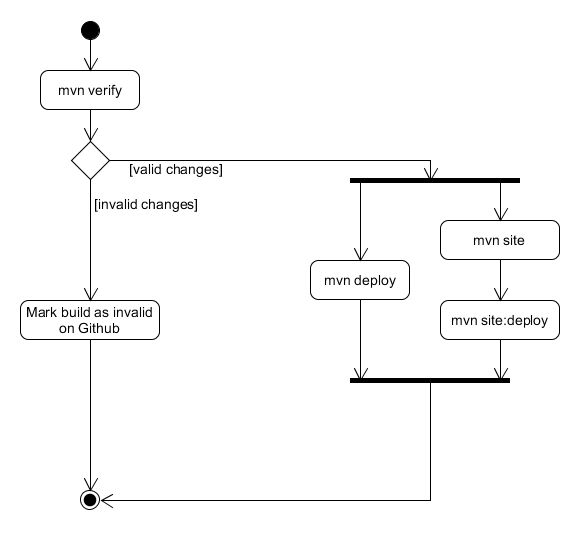
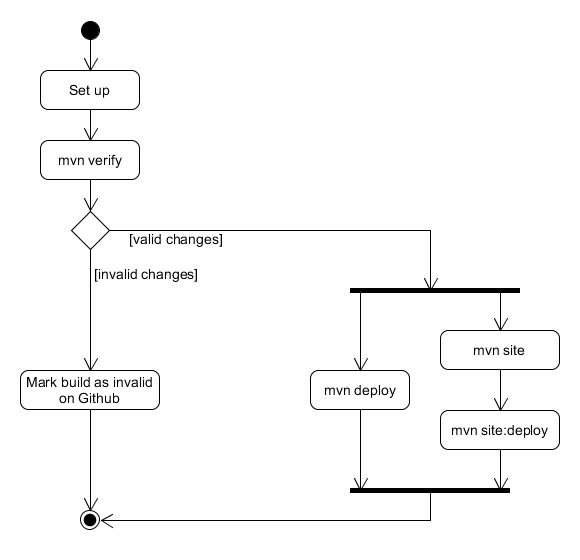
Updated CI docs

diff --git a/general/ci.md b/general/ci.md
@@ -4,11 +4,74 @@ The CI service will take care of validating the changes, building/publishing art
 
 ![CI flow][ci_flow]
 
+## Worflow
+
+CI is triggered by changes to the code repository.
+
+But not all the changes should be treated equally, instead there are a few workflows depending on the source of the changes:
+
+- Releases, when the code is for a version which will be published
+- Development, for the main development version
+- Pull request, when combining branches
+- Other, for example when developing a feature
+
+Releases and development versions are the primary source code bases for the project. And these receive special care, which usually includes deploying documentation.
+
+Pull requests are fast, and will skip all special conditions. A pull request into the master branch should not publish the project, for example. If the pull request is accepted then a new workflow will start, and take care of any task needed.
+
+Other triggers usually skip only the deployment tasks.
+
+### Conditions
+
+Flow | Marked by
+--- | ---
+Release | Comes from the master branch
+Development | Comes from the develop branch
+Pull request | Environment variable
+
+### Deployment flow
+
+![Deployment flow][deployment_flow]
+
 ## Scripts
 
-The [CI scripts][scripts_repo], meant to be used with Travis, help running the CI tasks.
+There is a set of [CI scripts][scripts_repo] to help running the CI tasks. These are meant for Travis and may not work with other services.
 
-To use them copy the entire repository
+To use them copy the entire repository and set the access permissions, as the scripts readme explains.
+
+```
+before_install:
+  # Gets scripts
+  - git clone -b v1.1.2 --single-branch https://github.com/Bernardo-MG/ci-shell-scripts.git ~/.scripts
+  # Sets scripts as executable
+  - chmod -R +x ~/.scripts/*
+```
+
+### Setting up the environment
+
+One of the scripts is run in most of the projects:
+
+```
+before_install:
+  # Prepares CI environment
+  - source ~/.scripts/travis/load-travis-environment.sh
+```
+
+This takes care of setting up a set of environment variables to be used by the other scripts.
+
+It will create the following flow control environmental variables:
+
+Variable | Type
+--- | ---
+DO\_DEPLOY | boolean
+DO\_DEPLOY\_RELEASE | boolean
+DO\_DEPLOY\_DEVELOP | boolean
+DO\_DEPLOY\_DOCS | boolean
+DO\_DEPLOY\_DOCS_RELEASE | boolean
+DO\_DEPLOY\_DOCS_DEVELOP | boolean
+DO\_TEST\_DOCS | boolean
+DO\_COVERAGE | boolean
 
 [ci_flow]: ../img/diagram/ci_general_activity.png
+[deployment_flow]: ../img/diagram/ci_deployment_flow.png
 [scripts_repo]: https://github.com/Bernardo-MG/ci-shell-scripts
